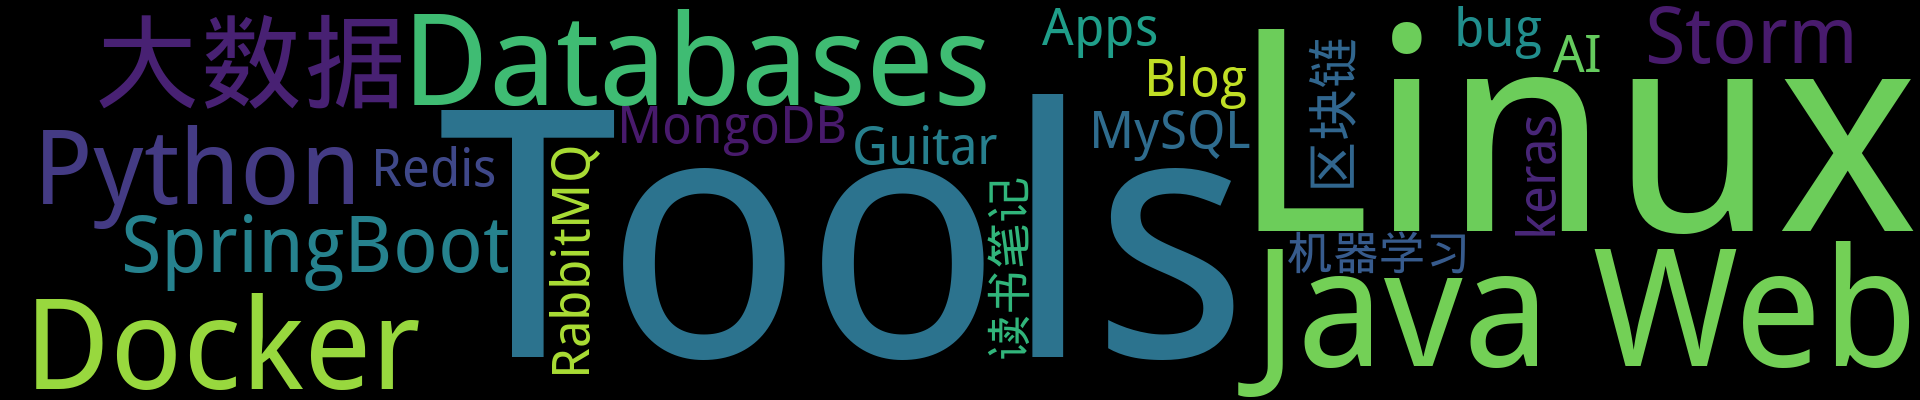
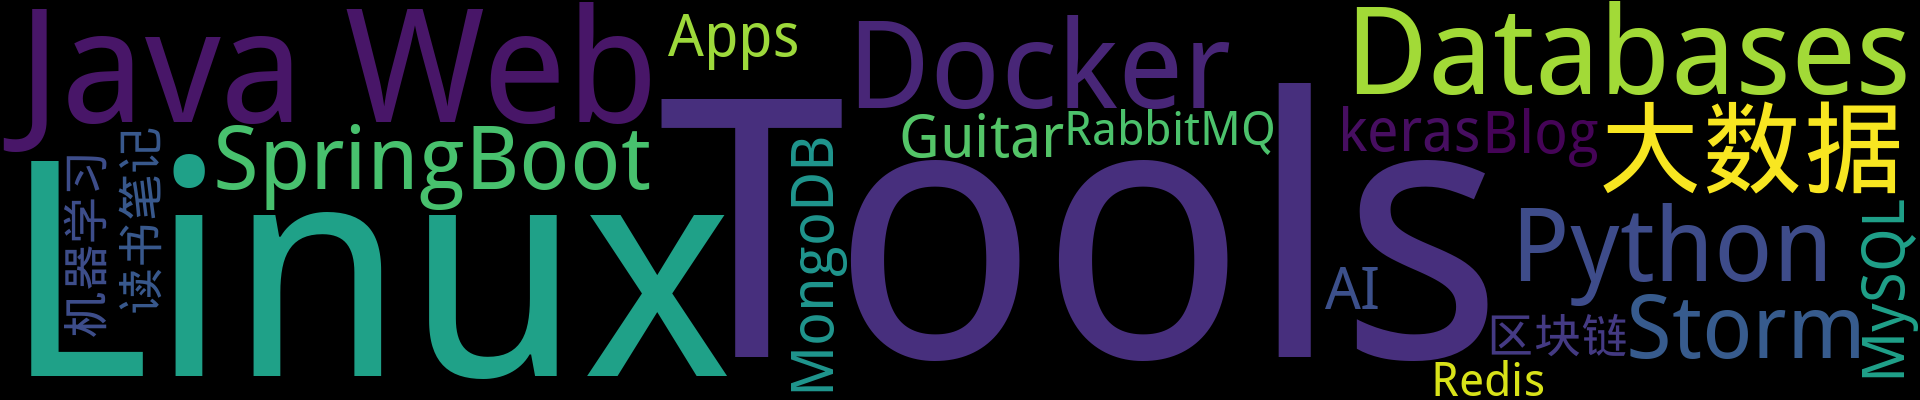
Update from Github Action

diff --git a/README.md b/README.md
@@ -1,7 +1,7 @@
 
 <p align='center'>
     <img src="https://badgen.net/github/issues/johnnian//Blog"/>
-    <img src="https://badgen.net/badge/last-commit/2024-07-12 14:07:14"/>
+    <img src="https://badgen.net/badge/last-commit/2024-07-12 14:08:52"/>
     <img src="https://badgen.net/github/forks/johnnian//Blog"/>
     <img src="https://badgen.net/github/stars/johnnian//Blog"/>
     <img src="https://badgen.net/github/watchers/johnnian//Blog"/>
@@ -31,14 +31,6 @@
 <summary>Blog	[1篇]</summary>
 
 - 2022-11-10 [使用Github Issues 与 Github Actions写技术博客](https://github.com/johnnian/Blog/issues/74) 
-
-
-</details>
-            
-<details open>
-<summary>bug	[1篇]</summary>
-
-- 2024-07-12 [Python3 Requests依赖报错-ImportError: urllib3 v2.0 only suports Openssl 1.1.1+](https://github.com/johnnian/Blog/issues/76) 
 
 
 </details>
